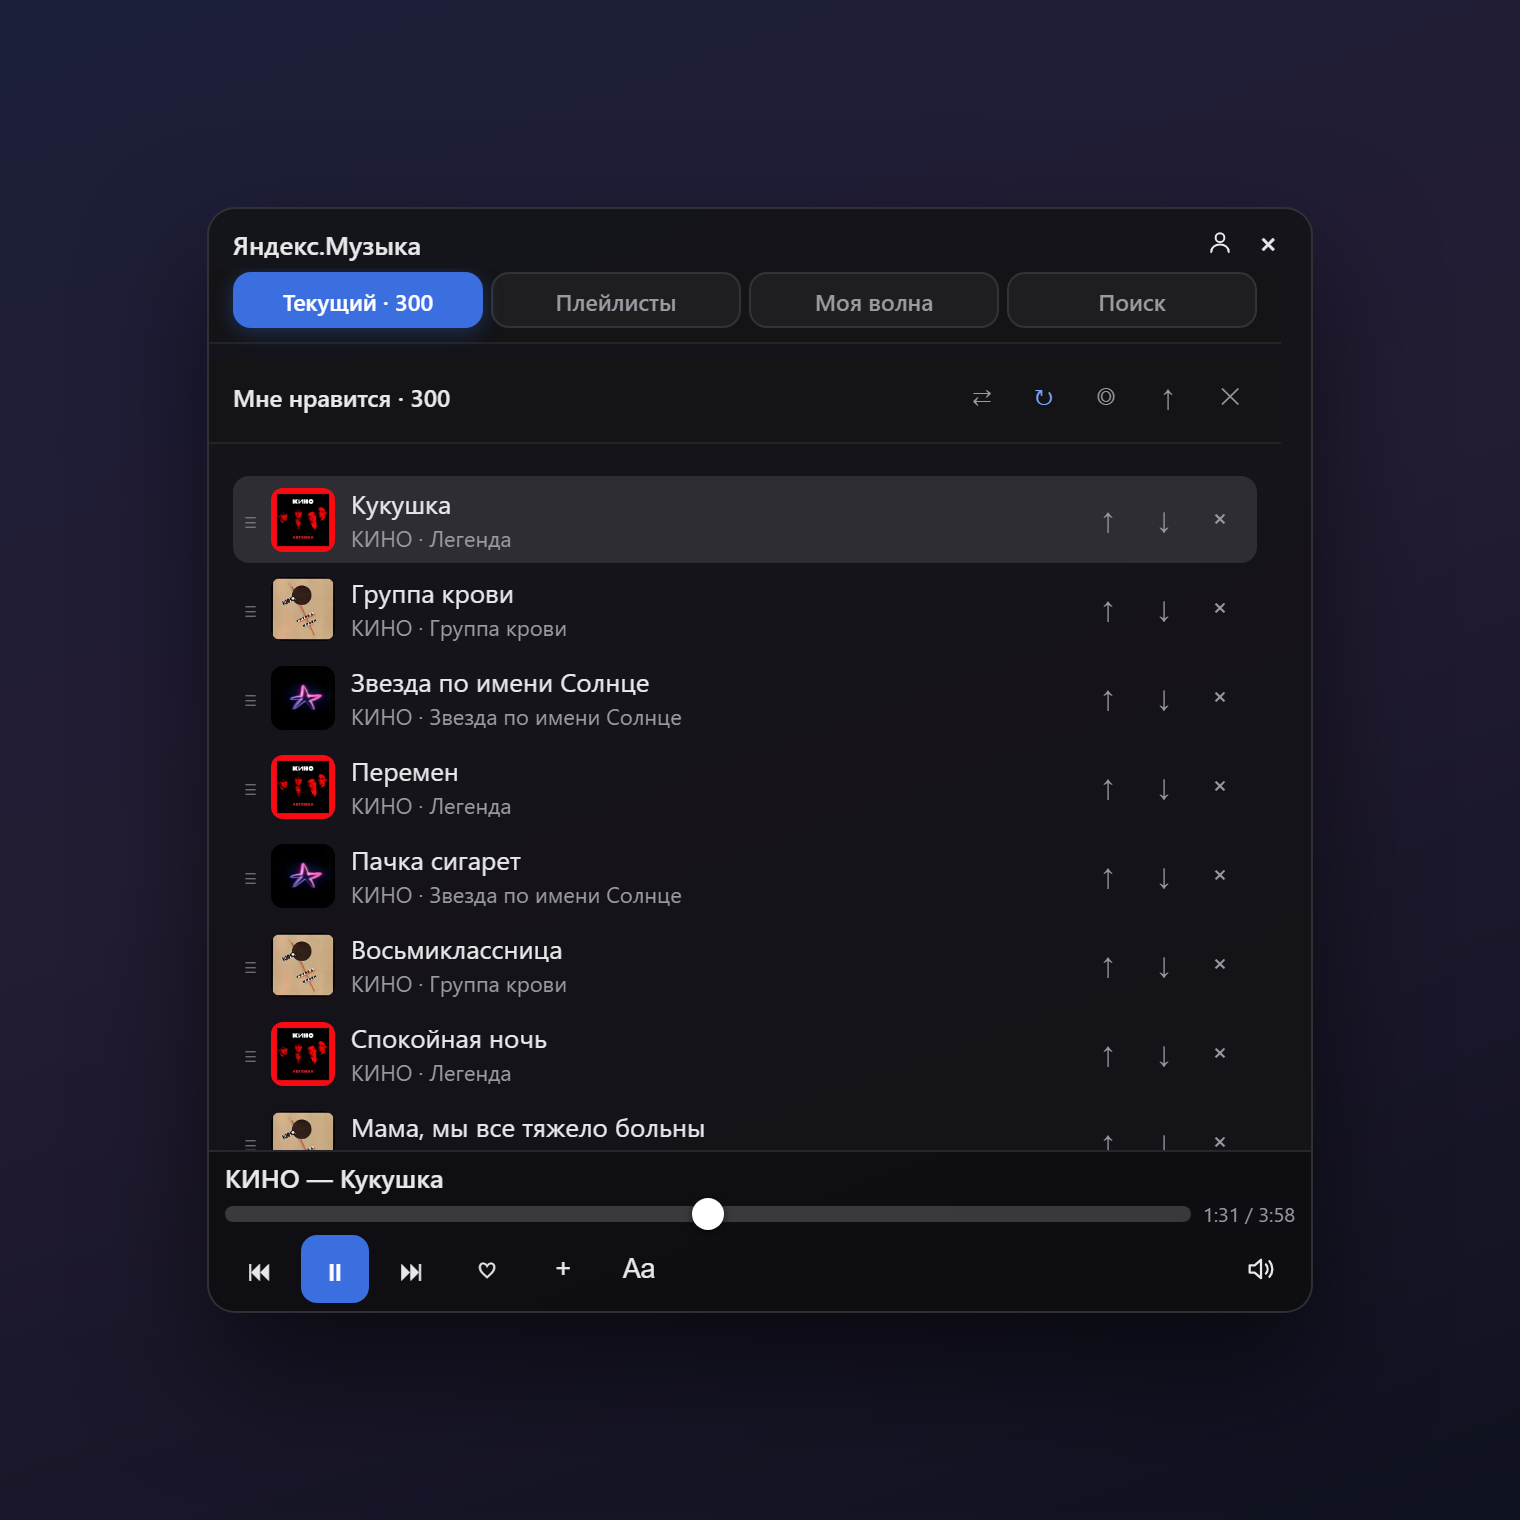
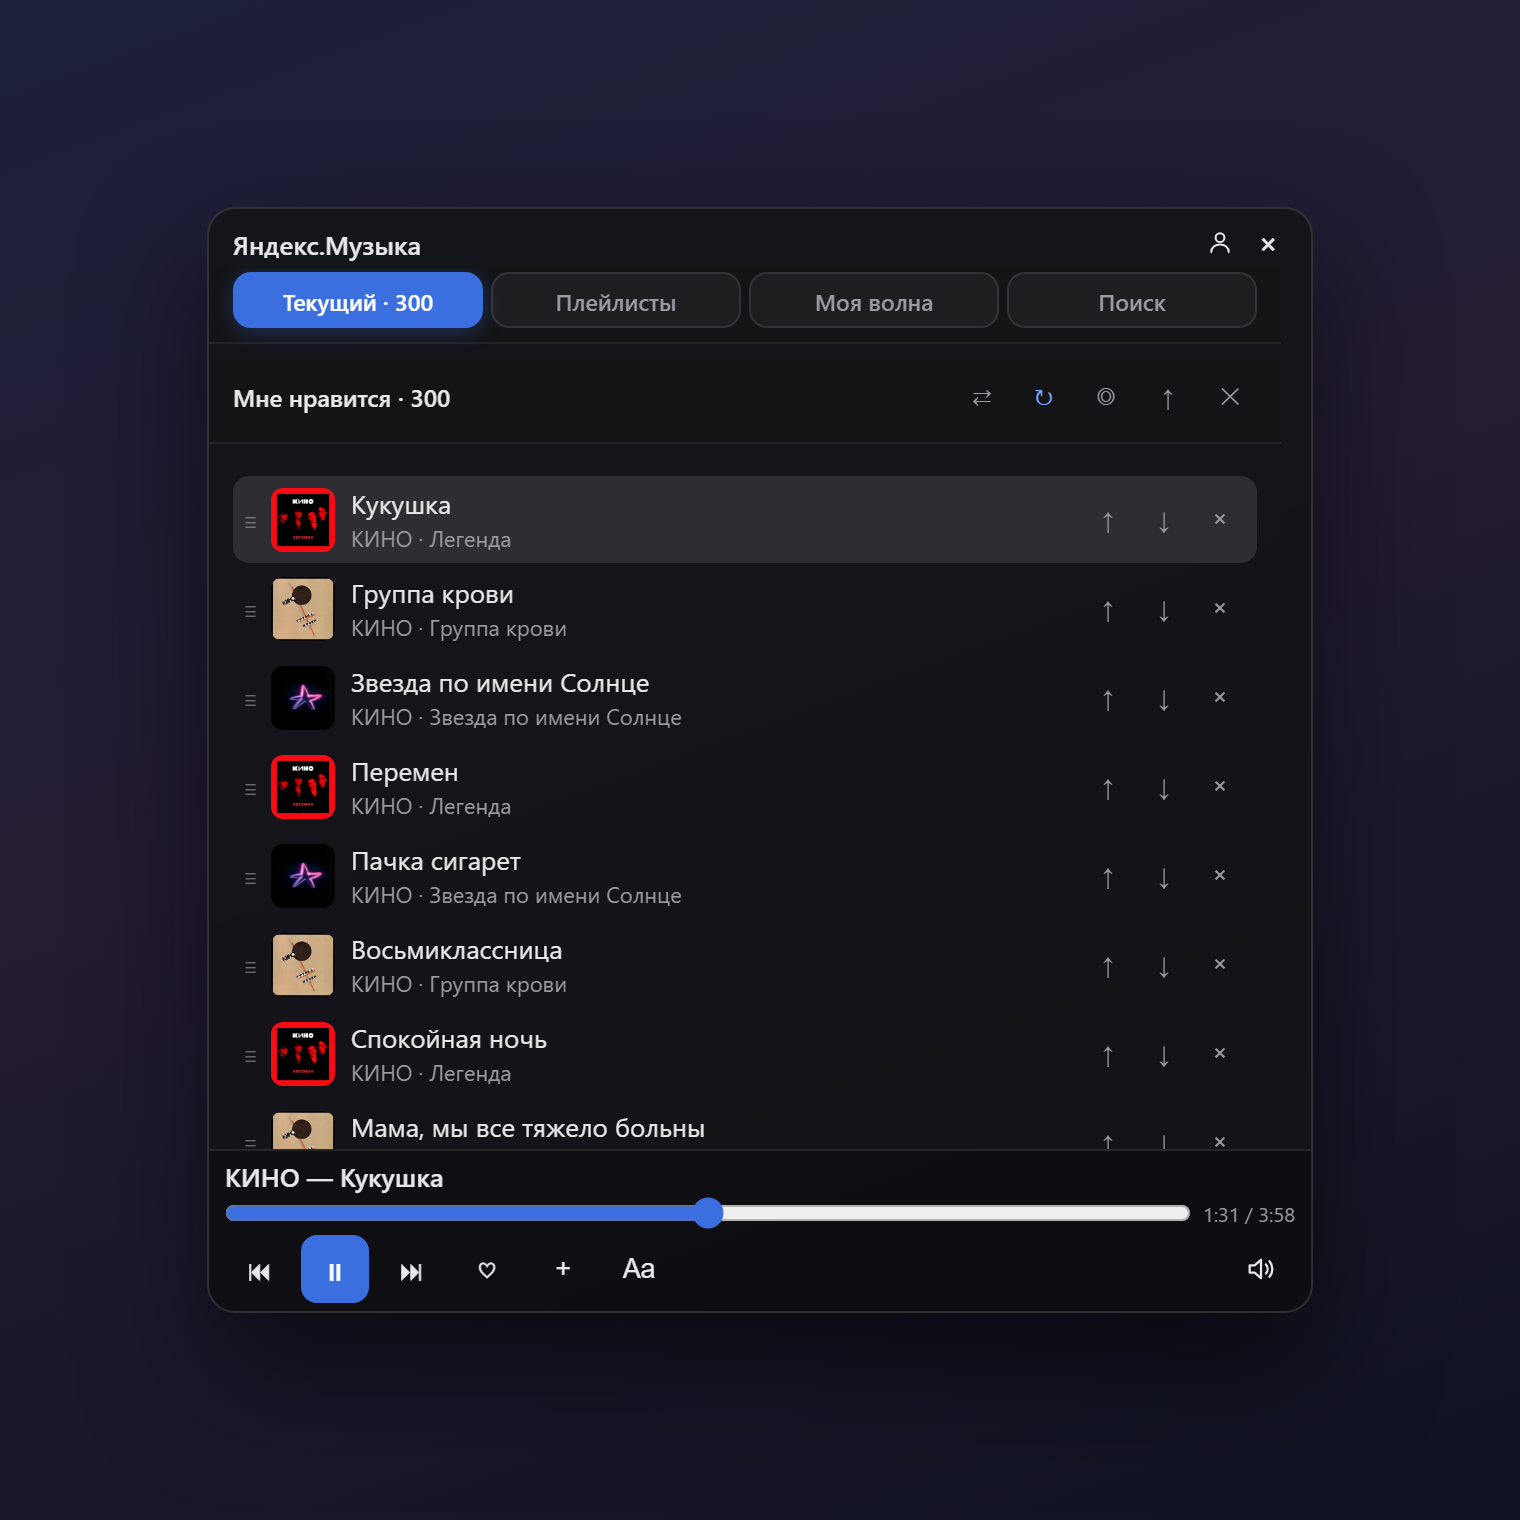
docs(screenshots): полоса трека с синей пройденной частью, как в приложении

Changed region(s): [[0.1546, 0.773, 0.8039, 0.8039]]

diff --git a/docs/screenshots/README.md b/docs/screenshots/README.md
@@ -1,10 +1,27 @@
-# Скриншоты
+# Скриншоты
 
-PNG в этой папке отрендерены из настоящей таблицы стилей плагина
-(\client.js\, блок \CSS\) и настоящих данных каталога станций из
-\plugin-data/dsh-yandex-music/cache/stations.json\. Обложки и иконки — реальные
-картинки Яндекс Музыки, подгруженные по ссылкам.
+PNG в этой папке отрендерены из настоящей таблицы стилей плагина (`client.js`,
+блок `CSS`) и настоящих данных каталога станций из
+`plugin-data/dsh-yandex-music/cache/stations.json`. Обложки, аватар исполнителя
+и иконки станций — реальные картинки Яндекс Музыки, подгруженные по своим
+ссылкам.
 
-Пересобрать: \
-ode build-previews.mjs\, затем \chrome --headless=new
---screenshot=... docs/screenshots/.preview/*.html\.
+Полоса длительности оставлена «нативной» (`accent-color`), поэтому синяя часть
+до ползунка рисуется так же, как в приложении, — подмены стилей слайдера нет.
+
+## Как пересобрать
+
+1. Вырезать блок `CSS` из `client.js` в файл `.preview/plugin.css` и добавить
+   сверху палитру `--dsw-alias-*` (иначе переменные темы не определены).
+2. Собрать страницы в `.preview/`: `main.html` (очередь), `wave.html` (станции),
+   `lyrics.html` (окно текста), `hero.html` (попап и текст рядом).
+3. Снять скриншоты headless Chrome в 2×:
+
+```powershell
+chrome --headless=new --disable-gpu --hide-scrollbars `
+  --force-device-scale-factor=2 --virtual-time-budget=9000 `
+  --window-size=760,760 --screenshot=docs/screenshots/main.png `
+  "file:///.../docs/screenshots/.preview/main.html"
+```
+
+Каталог `.preview/` в git не хранится — это рабочие файлы.
